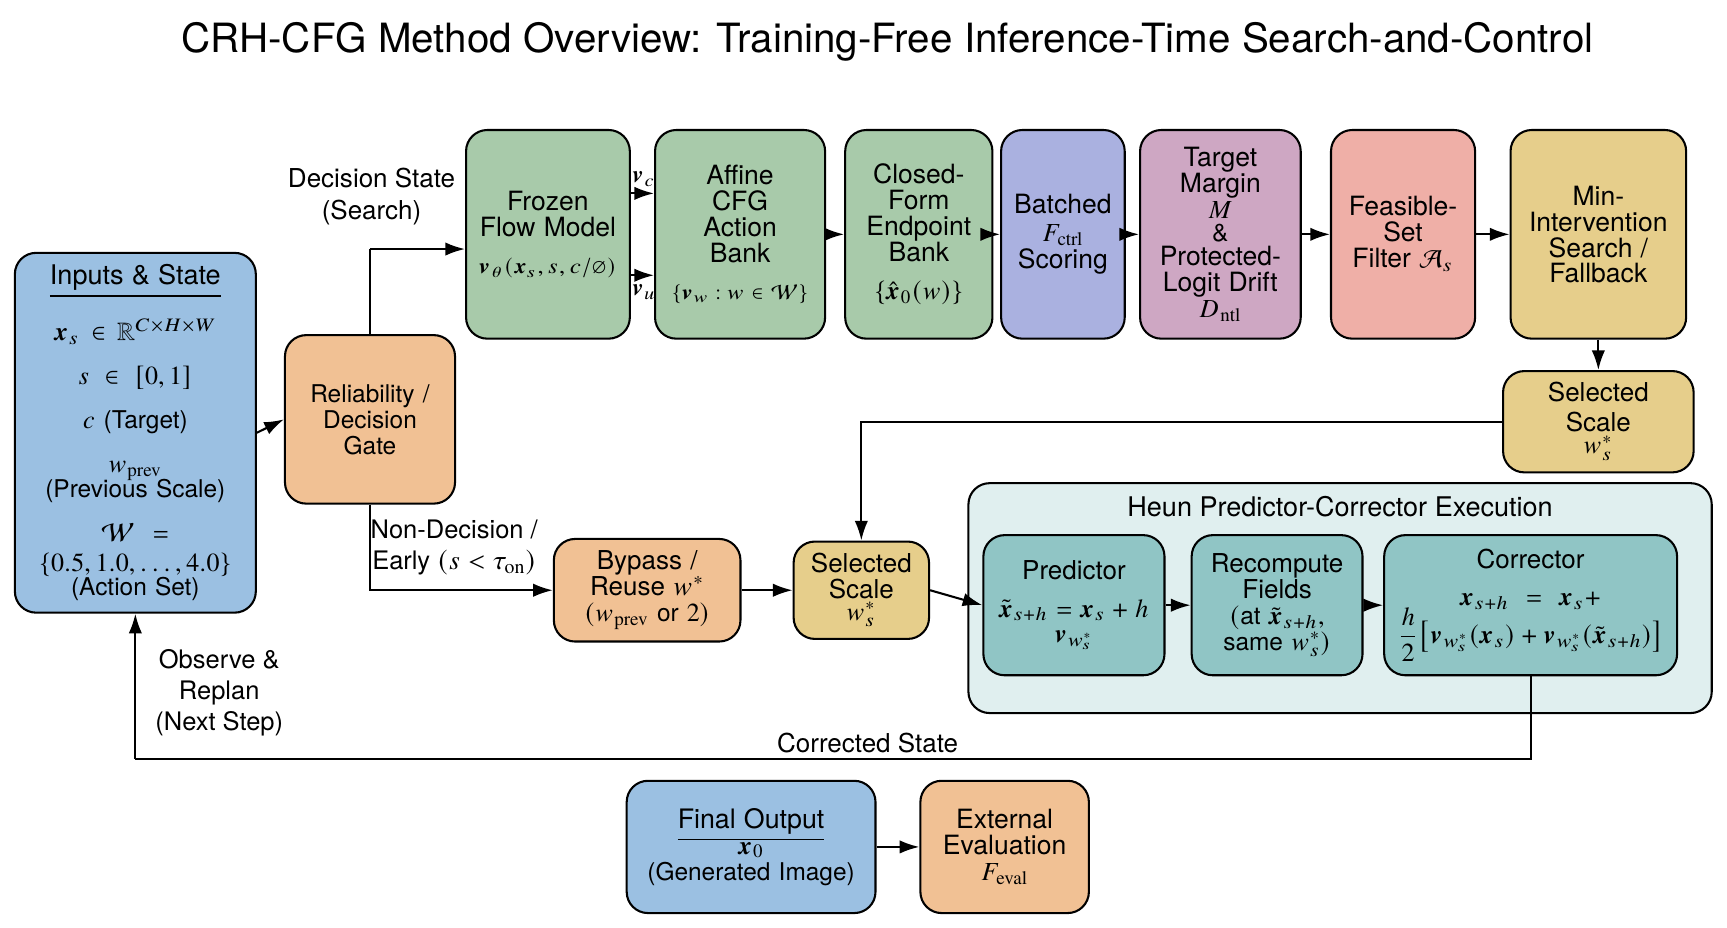
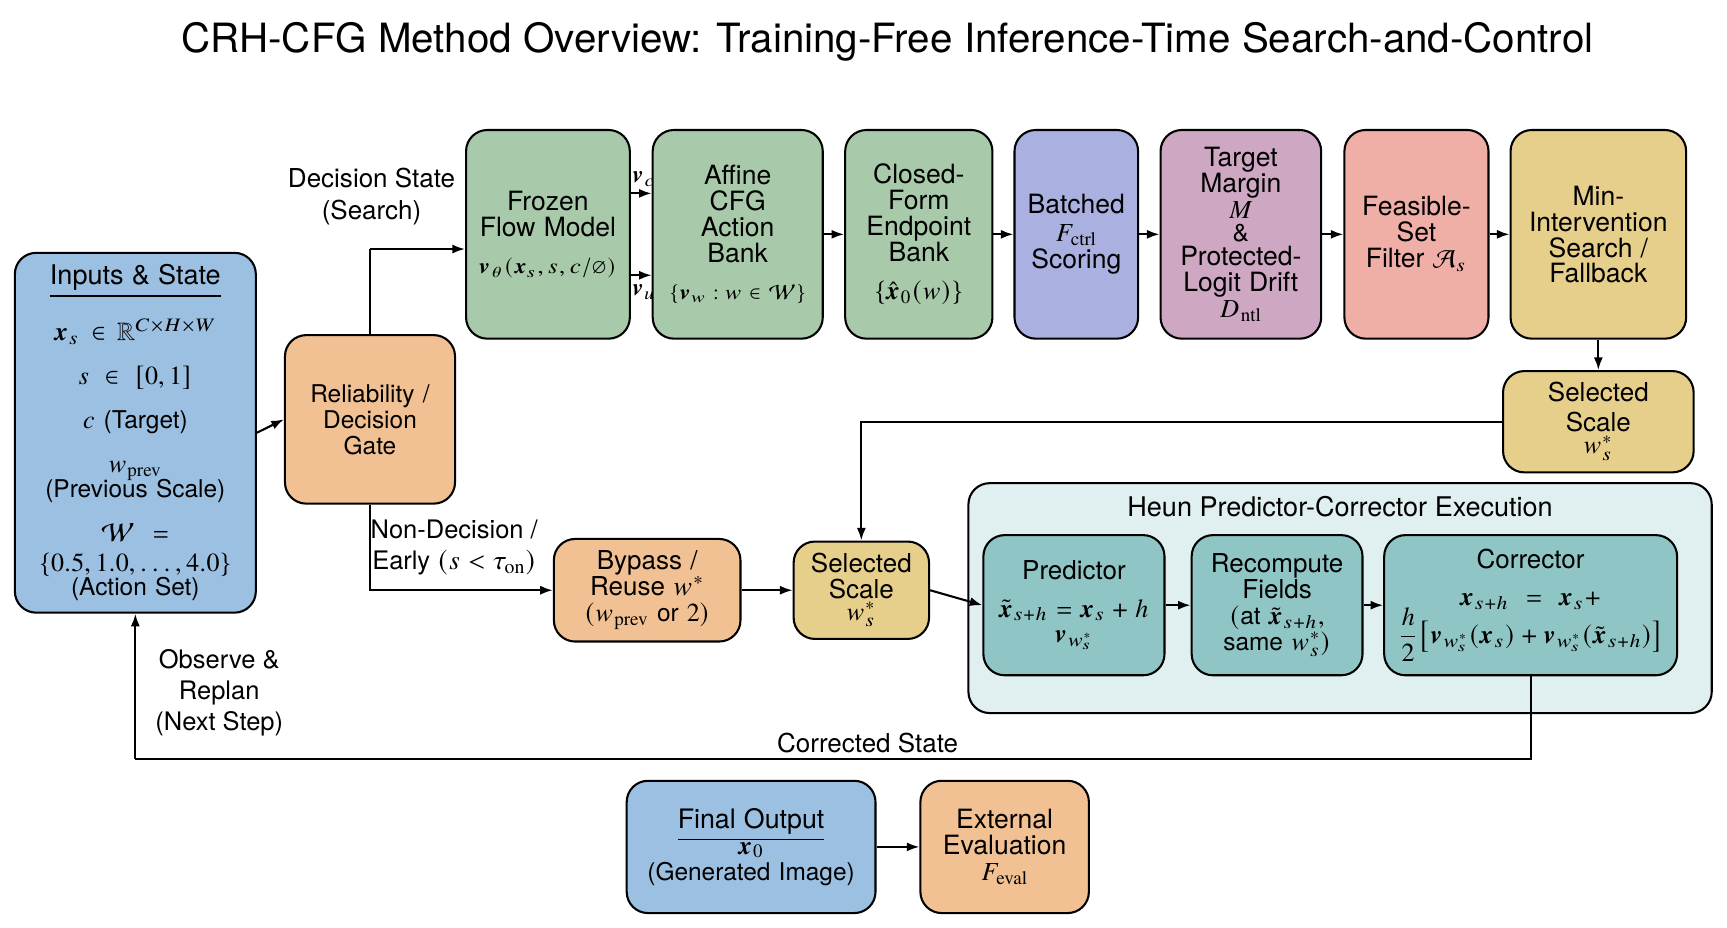
fix method overview arrows

Changed region(s): [[0.5524, 0.125, 0.89, 0.375], [0.3683, 0.1562, 0.491, 0.3438]]

diff --git a/hw4/figures/crh_cfg_method_overview.tex b/hw4/figures/crh_cfg_method_overview.tex
@@ -18,8 +18,8 @@
 \begin{tikzpicture}[
   x=1cm,y=1cm,
   font=\sffamily\fontsize{9.4}{10.8}\selectfont,
-  >={Latex[length=2.5mm,width=1.7mm]},
-  flow/.style={-{Latex[length=2.5mm,width=1.7mm]},line width=0.75pt,draw=black},
+  >={Latex[length=1.6mm,width=1.15mm]},
+  flow/.style={-{Latex[length=1.6mm,width=1.15mm]},line width=0.75pt,draw=black},
   route/.style={line width=0.75pt,draw=black},
   box/.style={
     rounded corners=2.7mm,
@@ -68,7 +68,7 @@
   {\fontsize{7.8}{8.8}\selectfont$\boldsymbol{v}_{\theta}(\boldsymbol{x}_s,s,c/\varnothing)$}
 };
 
-\node[sagebox,text width=1.84cm,minimum height=2.65cm] (affine) at (9.28,9.18) {
+\node[sagebox,text width=1.84cm,minimum height=2.65cm] (affine) at (9.25,9.18) {
   {\fontsize{10.2}{11.4}\selectfont Affine}\\[-0.5mm]
   {\fontsize{10.2}{11.4}\selectfont CFG}\\[-0.5mm]
   {\fontsize{10.2}{11.4}\selectfont Action}\\[-0.5mm]
@@ -84,13 +84,13 @@
   $\{\hat{\boldsymbol{x}}_0(w)\}$
 };
 
-\node[periwinklebox,text width=1.25cm,minimum height=2.65cm] (score) at (13.38,9.18) {
+\node[periwinklebox,text width=1.25cm,minimum height=2.65cm] (score) at (13.55,9.18) {
   {\fontsize{10.2}{11.4}\selectfont Batched}\\[-0.3mm]
   $F_{\mathrm{ctrl}}$\\[-0.3mm]
   {\fontsize{10.2}{11.4}\selectfont Scoring}
 };
 
-\node[rosebox,text width=1.72cm,minimum height=2.65cm] (margin) at (15.38,9.18) {
+\node[rosebox,text width=1.72cm,minimum height=2.65cm] (margin) at (15.64,9.18) {
   {\fontsize{10.2}{11.4}\selectfont Target}\\[-0.5mm]
   {\fontsize{10.2}{11.4}\selectfont Margin}\\[-0.5mm]
   $M$\\[-0.8mm]
@@ -100,7 +100,7 @@
   $D_{\mathrm{ntl}}$
 };
 
-\node[coralbox,text width=1.51cm,minimum height=2.65cm] (filter) at (17.70,9.18) {
+\node[coralbox,text width=1.51cm,minimum height=2.65cm] (filter) at (17.87,9.18) {
   {\fontsize{10.2}{11.4}\selectfont Feasible-}\\[-0.5mm]
   {\fontsize{10.2}{11.4}\selectfont Set}\\[-0.5mm]
   {\fontsize{10.2}{11.4}\selectfont Filter} $\mathcal{A}_s$
